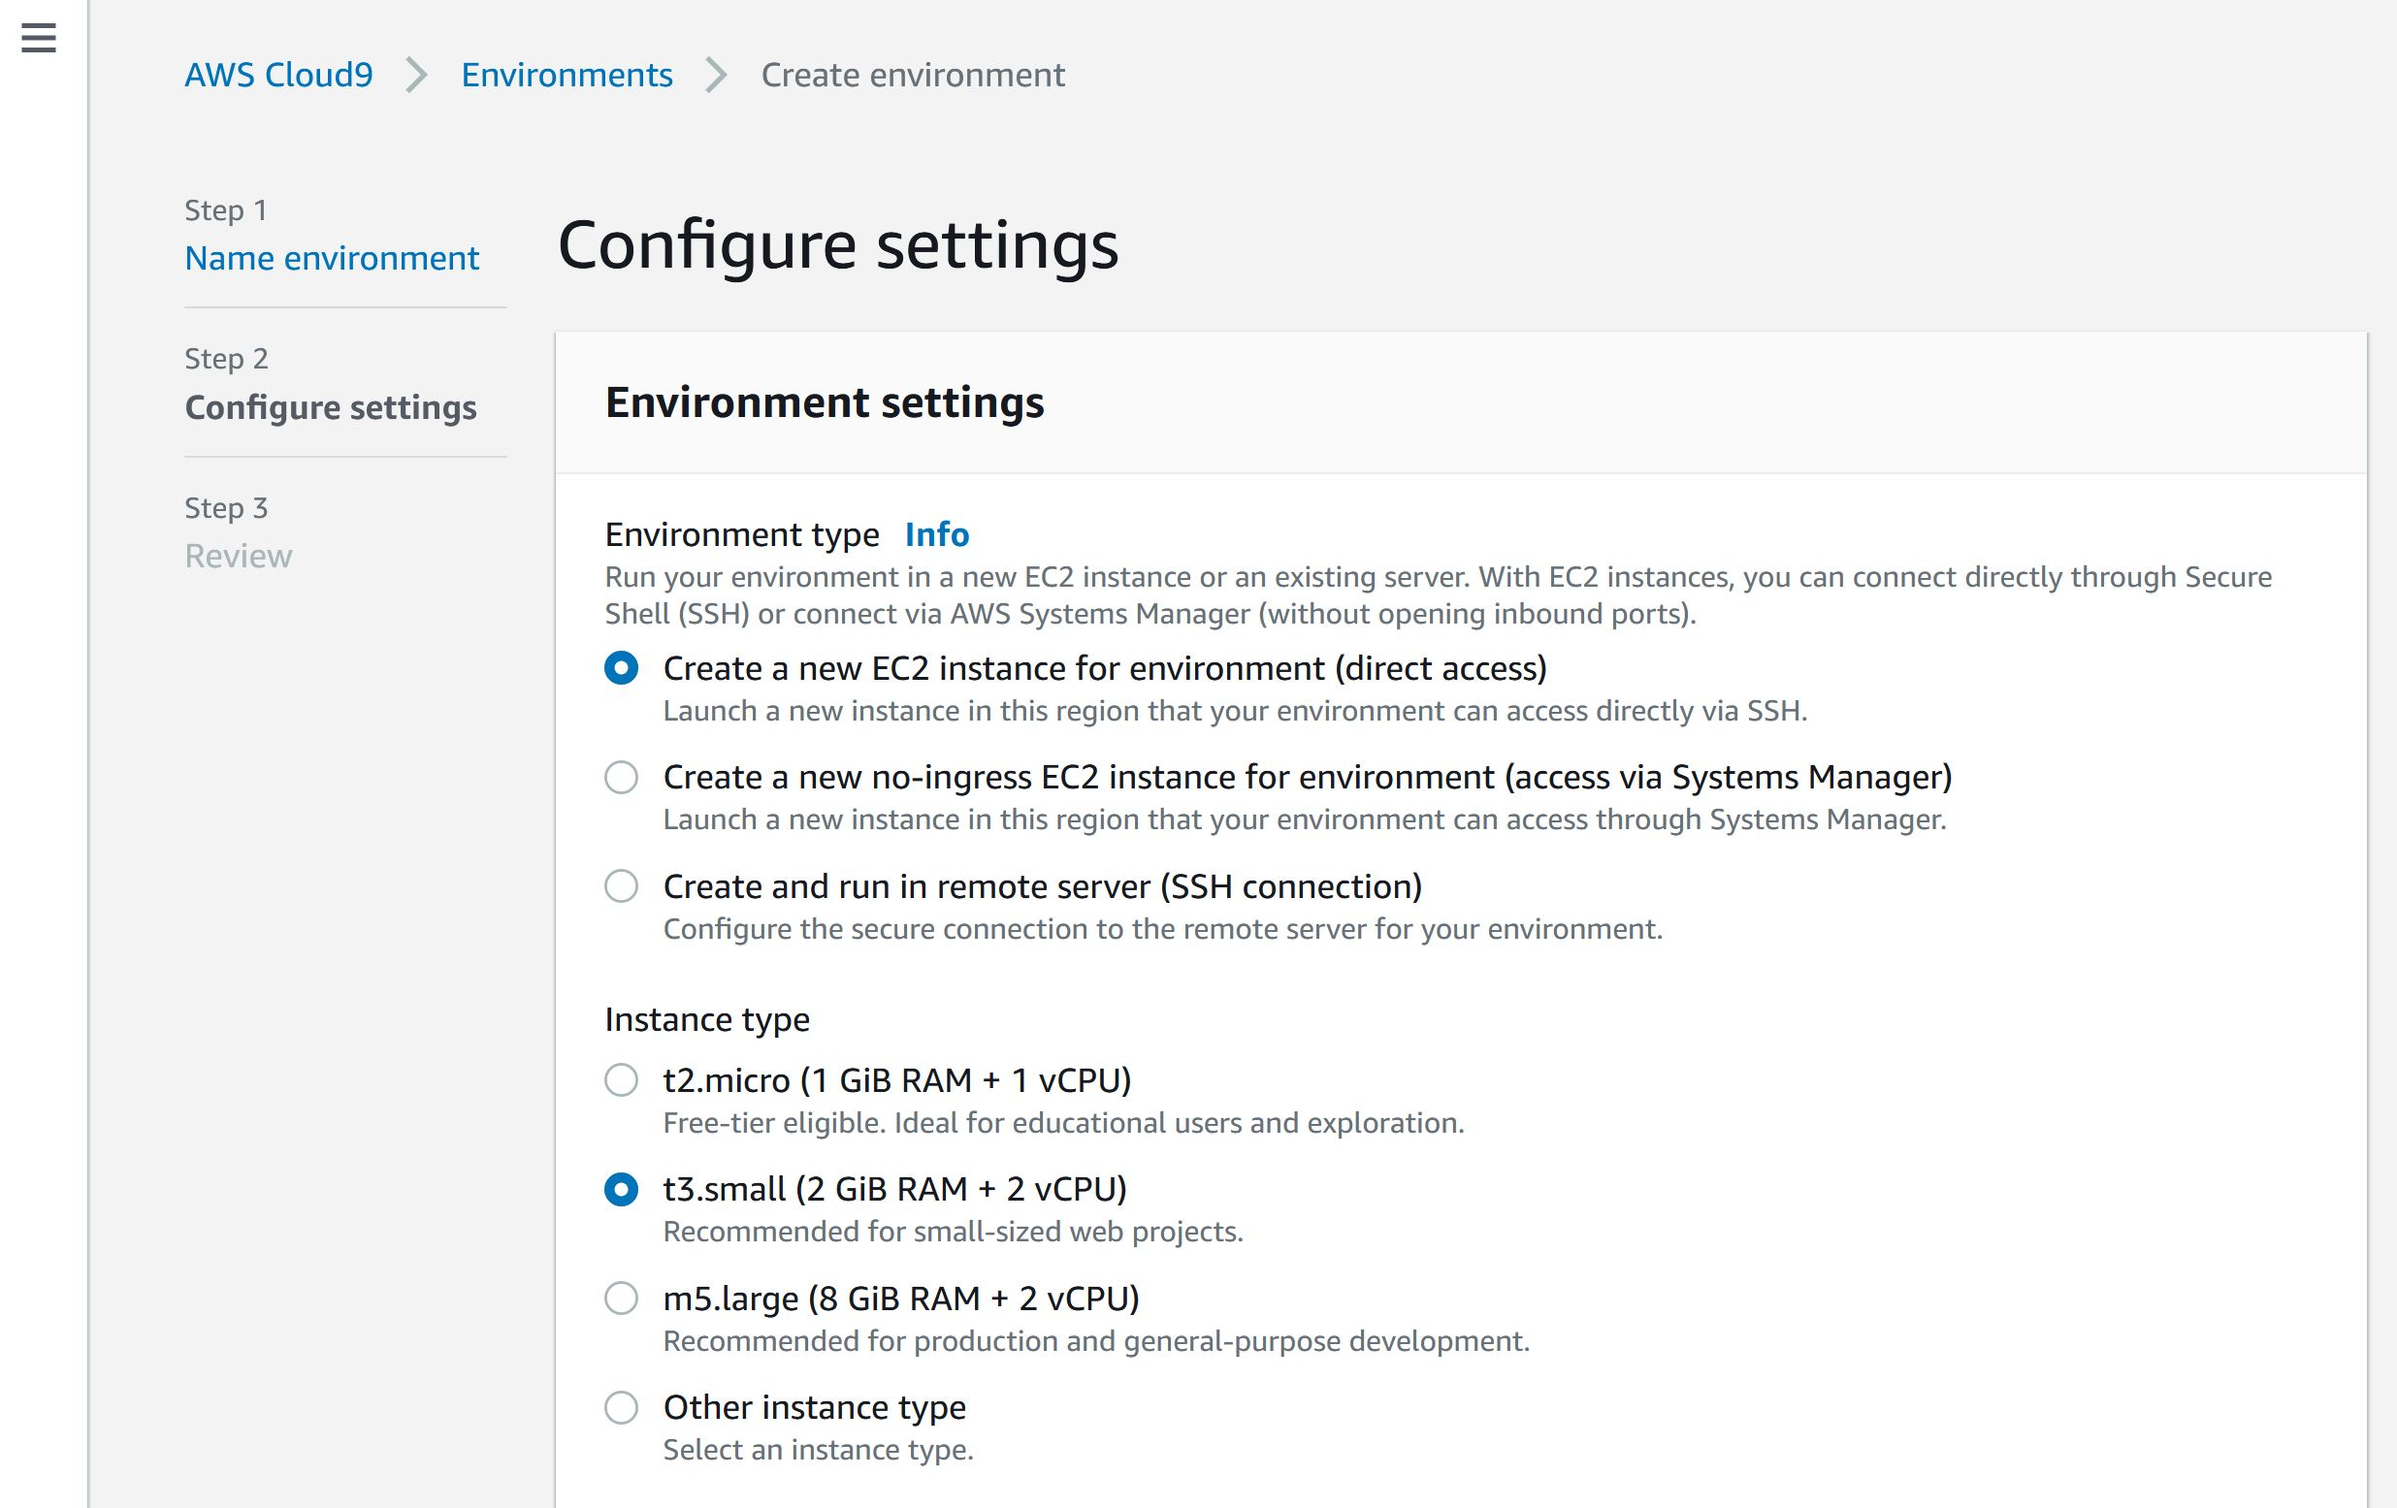
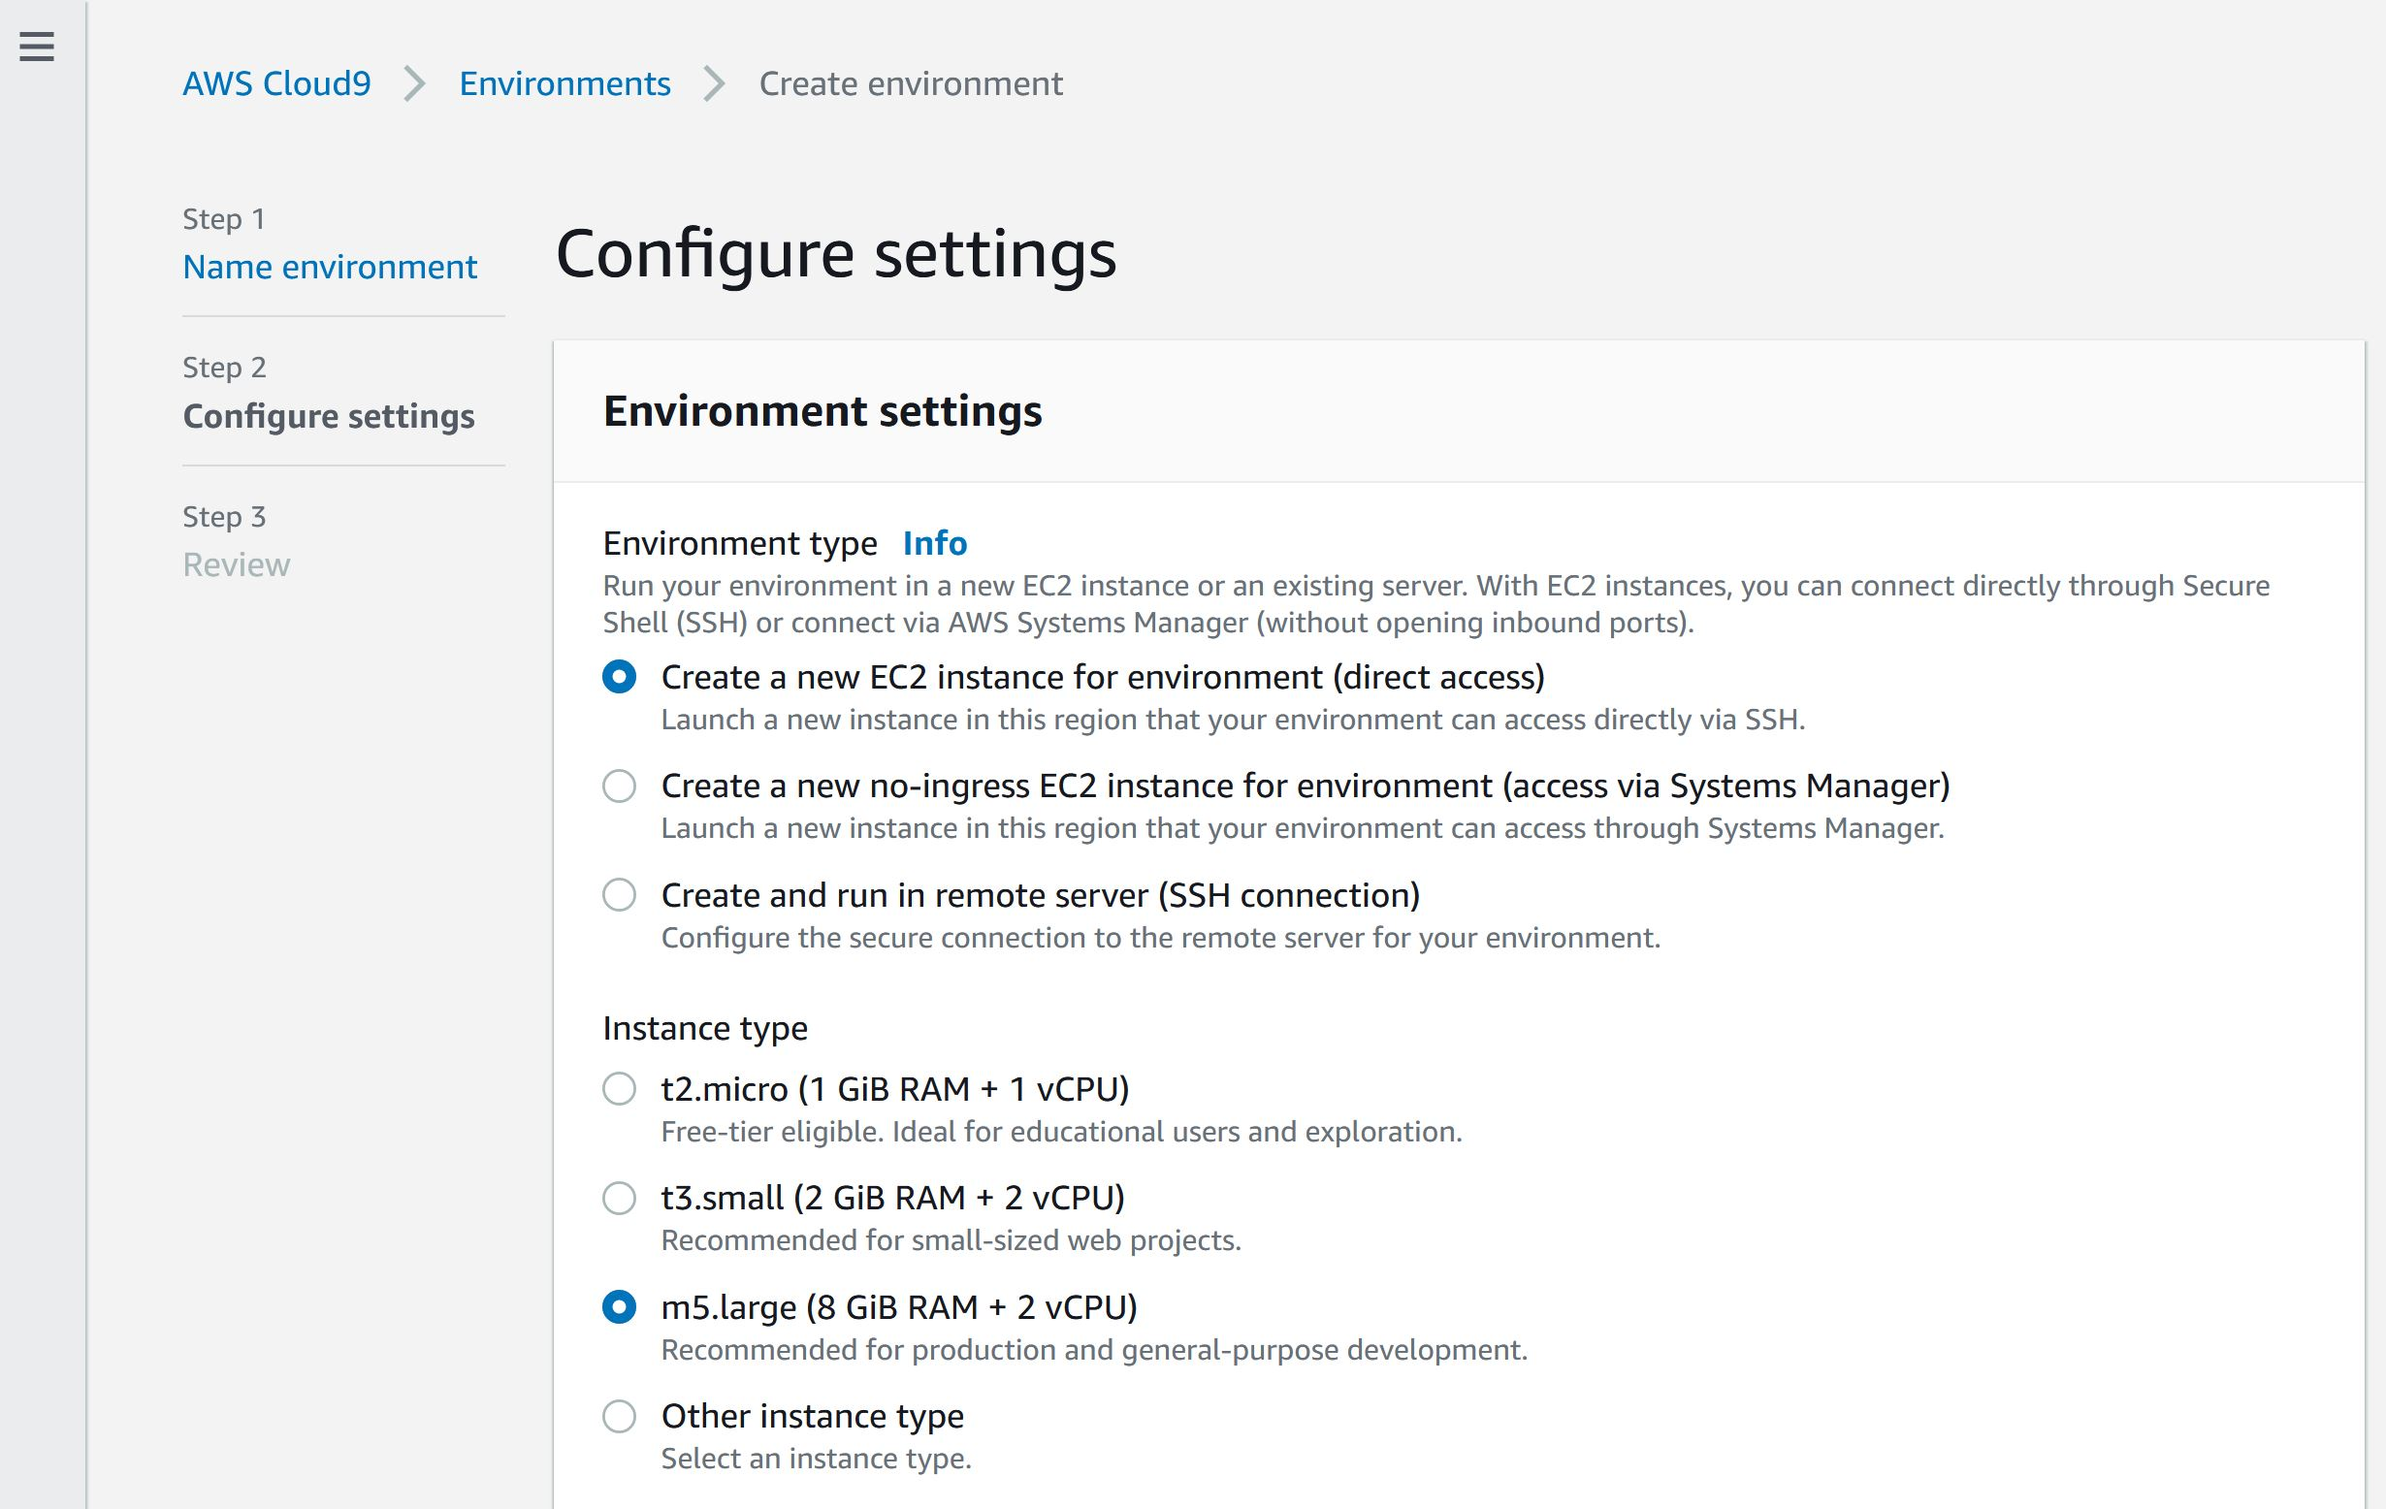
GitBook: [master] 42 pages and 2 assets modified

diff --git a/module-02/02-section-03.md b/module-02/02-section-03.md
@@ -22,18 +22,18 @@ pub fn main() {
 1. Build and run the package 
 
 ```text
-[user@localhost rust-daas]$ cargo run
-   Compiling rust-daas v0.1.0 (C:\workspace\rust-daas)
-    Finished dev [unoptimized + debuginfo] target(s) in 0.67s
-     Running `target\debug\hello_world.exe`
+ArchConfWorkshopUser:~/environment/rust-daas (master) $ cargo run
+   Compiling rust-daas v0.1.0 (/home/ec2-user/environment/rust-daas)
+    Finished dev [unoptimized + debuginfo] target(s) in 0.35s
+     Running `target/debug/hello_world`
 Hello World
 ```
 
 > There should now be an executable named **hello\_world** in the /target/debug directory which you can execute directly.
 
 ```text
-[user@localhost rust-daas]$  cd .\target\debug\
-[user@localhost debug]$ ./hello_world
+ArchConfWorkshopUser:~/environment/rust-daas (master) $ cd ./target/debug/
+ArchConfWorkshopUser:~/environment/rust-daas/target/debug (master) $ ./hello_world 
 Hello World
 ```
 

diff --git a/setting-up-you-machines/creating-a-workstation.md b/setting-up-you-machines/creating-a-workstation.md
@@ -23,7 +23,7 @@ Enter your name as the `Name` of the new environment.
 Select the following:
 
 * Environment type: `Create a new EC2 instance for environment (direct access)`
-* Instance type: `t3.small`
+* Instance type: `m5.large`
 * Platform: `Amazon Linux2`
 * Cost-saving setting: `After a day`
 
